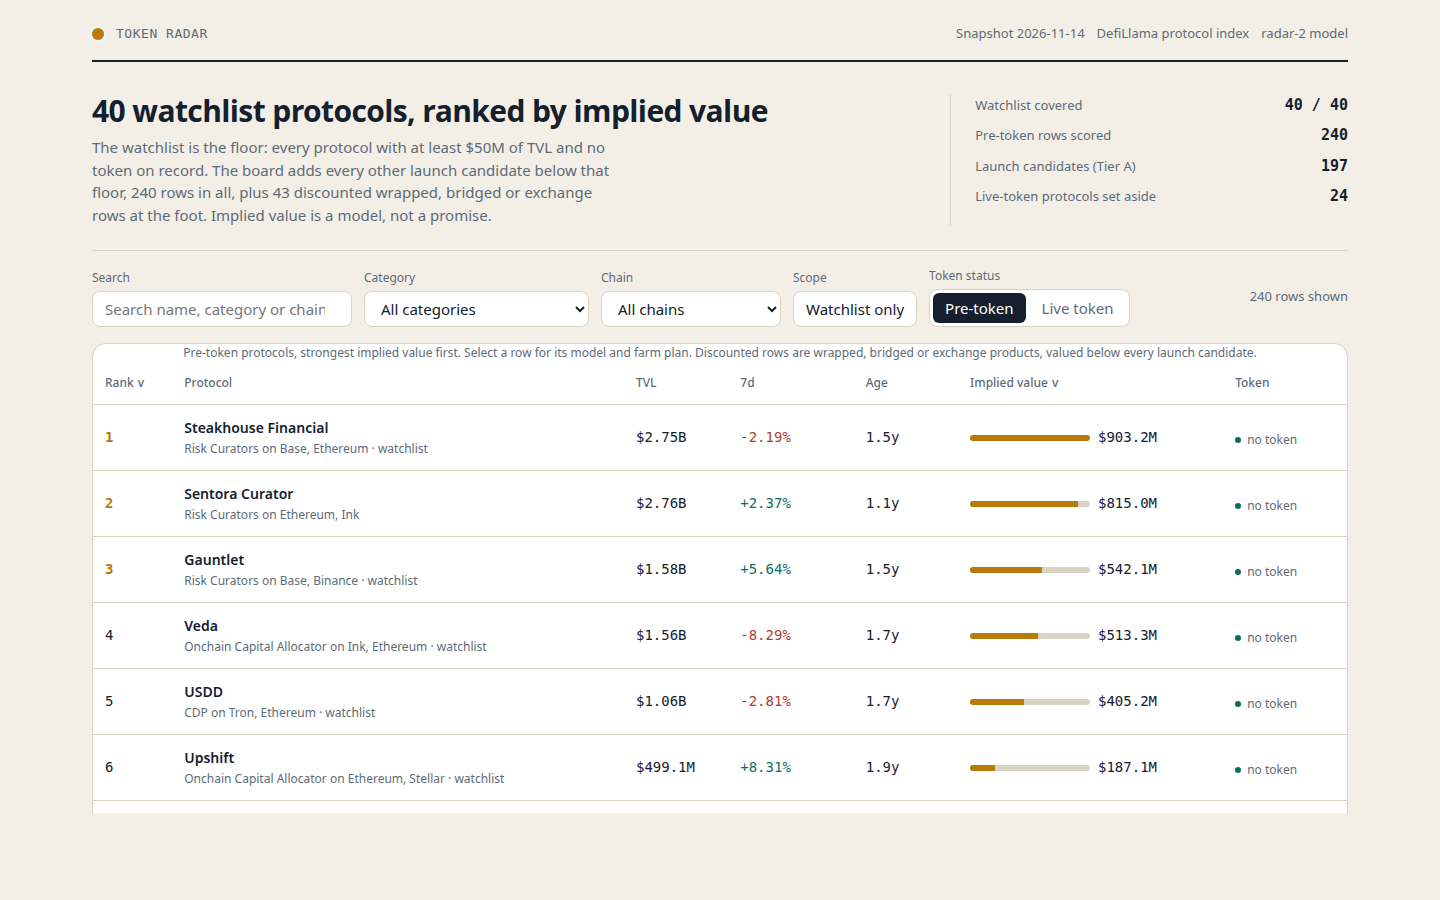
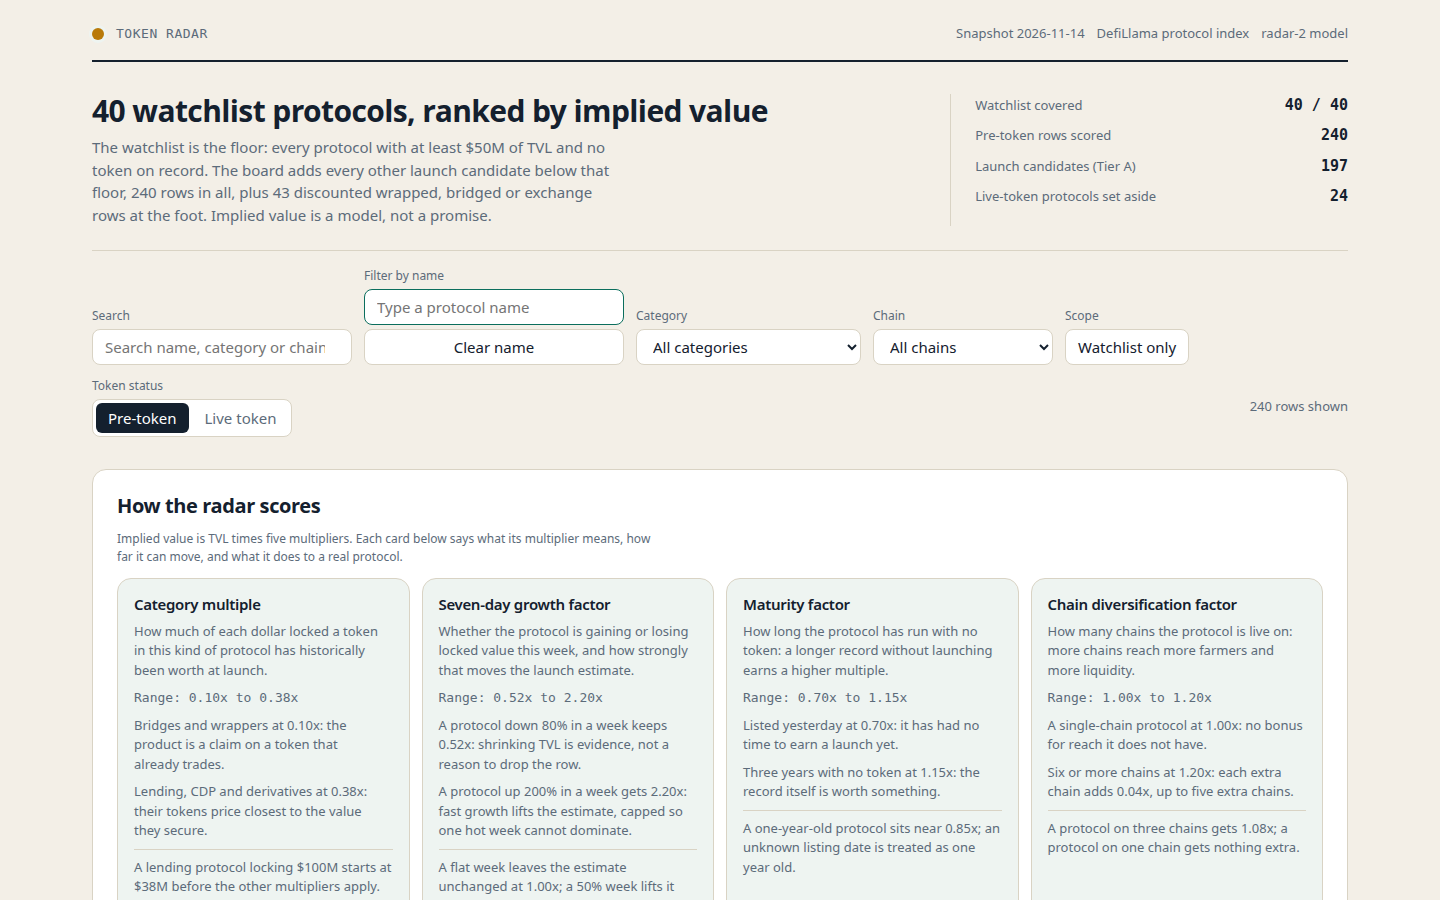
Token Radar: methodology, category summaries, score explanations, name search

diff --git a/lib/model.ts b/lib/model.ts
@@ -197,6 +197,9 @@ export interface RadarData {
   live_size: number;
   rows: RadarRow[];
   live: LiveRow[];
+  methodology: MultiplierGuideEntry[];
+  categories: CategoryBoardSummary[];
+  explanations: ScoreExplanation[];
 }
 
 /** Why the snapshot is not one this model can score. */
@@ -526,10 +529,167 @@ export function radarRow(row: BoardRow, watchlist: Set<string>): RadarRow {
   };
 }
 
+/** One row of the methodology table the dashboard renders: what a multiplier means in plain words, the range it can take, and a worked example. */
+export interface MultiplierGuideEntry {
+  factorName: string;
+  plainMeaning: string;
+  rangeText: string;
+  lowEndText: string;
+  highEndText: string;
+  workedExample: string;
+}
+
+/** The five multiplier rows, in the order the dashboard explains them: category first, then growth, maturity, chains, and tier. */
+export function multiplierGuide(): MultiplierGuideEntry[] {
+  const guideRows: MultiplierGuideEntry[] = [
+    {
+      factorName: 'Category multiple',
+      plainMeaning: 'How much of each dollar locked a token in this kind of protocol has historically been worth at launch.',
+      rangeText: '0.10x to 0.38x',
+      lowEndText: 'Bridges and wrappers at 0.10x: the product is a claim on a token that already trades.',
+      highEndText: 'Lending, CDP and derivatives at 0.38x: their tokens price closest to the value they secure.',
+      workedExample: 'A lending protocol locking $100M starts at $38M before the other multipliers apply.',
+    },
+    {
+      factorName: 'Seven-day growth factor',
+      plainMeaning: 'Whether the protocol is gaining or losing locked value this week, and how strongly that moves the launch estimate.',
+      rangeText: '0.52x to 2.20x',
+      lowEndText: 'A protocol down 80% in a week keeps 0.52x: shrinking TVL is evidence, not a reason to drop the row.',
+      highEndText: 'A protocol up 200% in a week gets 2.20x: fast growth lifts the estimate, capped so one hot week cannot dominate.',
+      workedExample: 'A flat week leaves the estimate unchanged at 1.00x; a 50% week lifts it to 1.30x.',
+    },
+    {
+      factorName: 'Maturity factor',
+      plainMeaning: 'How long the protocol has run with no token: a longer record without launching earns a higher multiple.',
+      rangeText: '0.70x to 1.15x',
+      lowEndText: 'Listed yesterday at 0.70x: it has had no time to earn a launch yet.',
+      highEndText: 'Three years with no token at 1.15x: the record itself is worth something.',
+      workedExample: 'A one-year-old protocol sits near 0.85x; an unknown listing date is treated as one year old.',
+    },
+    {
+      factorName: 'Chain diversification factor',
+      plainMeaning: 'How many chains the protocol is live on: more chains reach more farmers and more liquidity.',
+      rangeText: '1.00x to 1.20x',
+      lowEndText: 'A single-chain protocol at 1.00x: no bonus for reach it does not have.',
+      highEndText: 'Six or more chains at 1.20x: each extra chain adds 0.04x, up to five extra chains.',
+      workedExample: 'A protocol on three chains gets 1.08x; a protocol on one chain gets nothing extra.',
+    },
+    {
+      factorName: 'Tier factor',
+      plainMeaning: 'Whether the row is a genuine launch candidate or a discounted product of a token that already trades.',
+      rangeText: '0.15x or 1.00x',
+      lowEndText: 'Tier B at 0.15x and capped below the weakest Tier A row: a wrapped or bridged product cannot launch like a new token.',
+      highEndText: 'Tier A at 1.00x: a launch candidate under the watchlist rule keeps its full modelled value.',
+      workedExample: 'A Tier B row modelled at $10M is carried at $1.5M, and never above the lowest Tier A value.',
+    },
+  ];
+  return guideRows;
+}
+
+/** One category's share of the ranked board: how many rows it holds, what they are worth together, and its strongest row. */
+export interface CategoryBoardSummary {
+  categoryLabel: string;
+  rankedCount: number;
+  combinedImpliedUsd: number;
+  averageImpliedUsd: number;
+  strongestSlug: string;
+  strongestName: string;
+  strongestImpliedUsd: number;
+  watchlistCount: number;
+  launchCandidateCount: number;
+}
+
+/** The per-category summary of a finished board, strongest combined value first. */
+export function buildCategorySummary(board: BoardRow[], watchlist: Set<string>): CategoryBoardSummary[] {
+  const buckets = new Map<string, BoardRow[]>();
+  for (const ranked of board) {
+    const label = ranked.category ?? 'Other';
+    const members = buckets.get(label);
+    if (members === undefined) buckets.set(label, [ranked]);
+    else members.push(ranked);
+  }
+  const summaries: CategoryBoardSummary[] = [];
+  for (const [label, members] of buckets) {
+    const ordered = members.slice().sort((a, b) => b.implied_value_usd - a.implied_value_usd);
+    const strongest = ordered[0]!;
+    const combined = members.reduce((running, member) => running + member.implied_value_usd, 0);
+    const onWatchlist = members.filter((member) => watchlist.has(member.slug)).length;
+    const launchCandidates = members.filter((member) => member.model.tier === 'A').length;
+    summaries.push({
+      categoryLabel: label,
+      rankedCount: members.length,
+      combinedImpliedUsd: combined,
+      averageImpliedUsd: Math.round(combined / members.length),
+      strongestSlug: strongest.slug,
+      strongestName: strongest.name,
+      strongestImpliedUsd: strongest.implied_value_usd,
+      watchlistCount: onWatchlist,
+      launchCandidateCount: launchCandidates,
+    });
+  }
+  summaries.sort((a, b) => b.combinedImpliedUsd - a.combinedImpliedUsd || (a.categoryLabel < b.categoryLabel ? -1 : 1));
+  return summaries;
+}
+
+/** A single protocol's score, broken into every multiplier, with two plain-language sentences the detail view can show. */
+export interface ScoreExplanation {
+  slug: string; // the board row this explanation belongs to
+  protocolName: string;
+  categoryLabel: string;
+  tvlUsd: number;
+  categoryMultiple: number;
+  growthPct: number;
+  growthMultiplier: number;
+  maturityMultiplier: number;
+  chainMultiplier: number;
+  tierLabel: string;
+  tierMultiplier: number;
+  chainCount: number;
+  ageDays: number | null;
+  impliedValueUsd: number;
+  narrativeLines: string[];
+}
+
+/** The score explanation for one board row, derived only from the row's own model figures. */
+export function explainScore(row: BoardRow): ScoreExplanation {
+  const tierLabel = row.model.tier === 'A' ? 'Tier A launch candidate' : 'Tier B discounted';
+  const ageWords = row.age_days === null ? 'an unknown listing date' : `${row.age_days} days listed`;
+  const growthWords = row.model.growth_pct > 0 ? `grew ${row.model.growth_pct}% in the last seven days` : row.model.growth_pct < 0 ? `fell ${Math.abs(row.model.growth_pct)}% in the last seven days` : 'was flat over the last seven days';
+  const explanation: ScoreExplanation = {
+    slug: row.slug, // identifies the protocol this explanation belongs to
+    protocolName: row.name,
+    categoryLabel: row.category ?? 'Other',
+    tvlUsd: row.tvl_usd,
+    categoryMultiple: row.model.category_multiple,
+    growthPct: row.model.growth_pct,
+    growthMultiplier: row.model.growth_multiplier,
+    maturityMultiplier: row.model.maturity_multiplier,
+    chainMultiplier: row.model.chain_multiplier,
+    tierLabel,
+    tierMultiplier: row.model.tier_multiplier,
+    chainCount: row.chains.length,
+    ageDays: row.age_days,
+    impliedValueUsd: row.implied_value_usd,
+    narrativeLines: [
+      `${row.name} locks $${row.tvl_usd.toLocaleString('en-US')}, ${growthWords}, and has ${ageWords} across ${row.chains.length} chain${row.chains.length === 1 ? '' : 's'}.`,
+      `Its ${row.category ?? 'Other'} multiple is ${row.model.category_multiple}x, growth ${row.model.growth_multiplier}x, maturity ${row.model.maturity_multiplier}x, chains ${row.model.chain_multiplier}x and ${tierLabel} ${row.model.tier_multiplier}x, giving $${row.implied_value_usd.toLocaleString('en-US')}.`,
+    ],
+  };
+  return explanation;
+}
+
+/** The score explanation for every row of a finished board, in board order. */
+export function explanationsForBoard(board: BoardRow[]): ScoreExplanation[] {
+  return board.map((ranked) => explainScore(ranked));
+}
+
 /** Everything the dashboard renders, from the snapshot. */
 export function buildRadar(snapshot: Snapshot, model: ModelConstants = MODEL): { board: BoardRow[]; radar: RadarData } {
   const board = buildBoard(snapshot, model);
   const live = liveRows(snapshot);
+  const watchlistSlugs = new Set(snapshot.watchlist);
+  const categorySummaries = buildCategorySummary(board, watchlistSlugs);
+  const scoreExplanations = explanationsForBoard(board);
   const early = board.filter((r) => !snapshot.watchlist.includes(r.slug)).length;
   const radar: RadarData = {
     as_of: snapshot.as_of,
@@ -543,6 +703,9 @@ export function buildRadar(snapshot: Snapshot, model: ModelConstants = MODEL): {
     live_size: live.length,
     rows: board.map((r) => radarRow(r, new Set(snapshot.watchlist))),
     live,
+    methodology: multiplierGuide(),
+    categories: categorySummaries,
+    explanations: scoreExplanations,
   };
   return { board, radar };
 }

diff --git a/dashboard/app.js b/dashboard/app.js
@@ -13,6 +13,17 @@
   if (!DATA) return;
   var app = document.getElementById('board');
   var state = { q: '', category: 'all', chain: 'all', watchlistOnly: false, tab: 'pre-token', sort: 'implied', dir: -1, selected: null };
+  state.nameQuery = '';
+  // The name filter is separate from the broad search above it: it matches only the protocol
+  // name and slug, so typing a name narrows the board to that protocol and its namesakes.
+  function nameMatches(row) {
+    var needle = state.nameQuery.trim().toLowerCase();
+    if (!needle) return true;
+    return row.name.toLowerCase().indexOf(needle) >= 0 || row.slug.toLowerCase().indexOf(needle) >= 0;
+  }
+  function filteredRows() {
+    return rows().filter(nameMatches);
+  }
 
   var usd = new Intl.NumberFormat('en-US', { style: 'currency', currency: 'USD', maximumFractionDigits: 0 });
   function fmtUsd(n) {
@@ -230,6 +241,9 @@
     var chains = Array.from(new Set(DATA.rows.reduce(function (acc, r) { return acc.concat(r.chains || []); }, []))).sort();
     var search = el('input', { type: 'search', id: 'q', placeholder: 'Search name, category or chain', value: state.q, 'aria-label': 'Search the board' });
     search.addEventListener('input', function () { state.q = search.value; writeHash(); render(); });
+    var nameSearch = el('input', { type: 'search', id: 'name-search', placeholder: 'Type a protocol name', value: state.nameQuery, 'aria-label': 'Filter by protocol name' });
+    nameSearch.addEventListener('input', function () { state.nameQuery = nameSearch.value; render(); });
+    var nameClear = el('button', { type: 'button', class: 'name-clear', text: 'Clear name', onclick: function () { state.nameQuery = ''; render(); } });
     var select = el('select', { id: 'category', 'aria-label': 'Filter by category' },
       el('option', { value: 'all', text: 'All categories' }),
       categories.map(function (c) { return el('option', { value: c, text: c, selected: c === state.category ? 'selected' : null }); })
@@ -245,11 +259,12 @@
     var live = el('button', { type: 'button', 'aria-pressed': state.tab === 'live' ? 'true' : 'false', text: 'Live token', onclick: function () { state.tab = 'live'; render(); } });
     return el('div', { class: 'controls' },
       el('div', { class: 'field' }, el('label', { for: 'q', text: 'Search' }), search),
+      el('div', { class: 'field' }, el('label', { for: 'name-search', text: 'Filter by name' }), nameSearch, nameClear),
       el('div', { class: 'field' }, el('label', { for: 'category', text: 'Category' }), select),
       el('div', { class: 'field' }, el('label', { for: 'chain', text: 'Chain' }), chainSelect),
       el('div', { class: 'field' }, el('span', { class: 'sub', text: 'Scope' }), wl),
       el('div', { class: 'field' }, el('span', { class: 'sub', text: 'Token status' }), el('div', { class: 'tabs' }, pre, live)),
-      el('span', { class: 'count', text: state.tab === 'pre-token' ? rows().length + ' rows shown' : DATA.live.length + ' live-token protocols' })
+      el('span', { class: 'count', text: state.tab === 'pre-token' ? filteredRows().length + ' rows shown' : DATA.live.length + ' live-token protocols' })
     );
   }
 
@@ -263,7 +278,7 @@
   }
 
   function boardTable() {
-    var list = sortedRows(rows());
+    var list = sortedRows(filteredRows());
     if (list.length === 0) {
       return el('div', { class: 'panel' }, el('div', { class: 'empty' },
         el('h2', { text: 'No protocol matches that filter' }),
@@ -342,6 +357,63 @@
     );
   }
 
+  // The methodology section reads the multiplier table main.ts writes into data.js, so the
+  // explanation on the page and the model's own numbers can never drift apart.
+  function methodologySection() {
+    var guide = DATA.methodology || [];
+    var cards = guide.map(function (g) {
+      return el('article', { class: 'guide-card' },
+        el('h3', { text: g.factorName }),
+        el('p', { text: g.plainMeaning }),
+        el('p', { class: 'guide-range', text: 'Range: ' + g.rangeText }),
+        el('p', { class: 'sub', text: g.lowEndText }),
+        el('p', { class: 'sub', text: g.highEndText }),
+        el('p', { class: 'guide-example', text: g.workedExample })
+      );
+    });
+    return el('section', { class: 'panel methodology', 'aria-label': 'How the radar scores' },
+      el('h2', { text: 'How the radar scores' }),
+      el('p', { class: 'sub', text: 'Implied value is TVL times five multipliers. Each card below says what its multiplier means, how far it can move, and what it does to a real protocol.' }),
+      el('div', { class: 'guide-grid' }, cards)
+    );
+  }
+
+  // One card per category on the board: how many rows it holds, what they are worth together,
+  // how many are launch candidates, and the strongest protocol in the category.
+  function categoryPanel() {
+    var summaries = (DATA.categories || []).slice().sort(function (a, b) { return b.combinedImpliedUsd - a.combinedImpliedUsd; });
+    var cards = summaries.map(function (s) {
+      return el('article', { class: 'category-card' },
+        el('h3', { text: s.categoryLabel }),
+        el('div', { class: 'category-figures' },
+          el('div', null, el('span', { class: 'sub', text: 'Ranked protocols' }), el('b', { class: 'num', text: String(s.rankedCount) })),
+          el('div', null, el('span', { class: 'sub', text: 'Combined implied value' }), el('b', { class: 'num', text: fmtUsd(s.combinedImpliedUsd) })),
+          el('div', null, el('span', { class: 'sub', text: 'Launch candidates' }), el('b', { class: 'num', text: String(s.launchCandidateCount) })),
+          el('div', null, el('span', { class: 'sub', text: 'On the watchlist' }), el('b', { class: 'num', text: String(s.watchlistCount) }))
+        ),
+        el('p', { class: 'category-top', text: 'Top: ' + s.strongestName + ' at ' + fmtUsd(s.strongestImpliedUsd) })
+      );
+    });
+    return el('section', { class: 'panel category-panel', 'aria-label': 'Categories on the board' },
+      el('h2', { text: 'Categories on the board' }),
+      el('p', { class: 'sub', text: 'The strongest protocol in each category, and what the whole category is worth together.' }),
+      el('div', { class: 'category-grid' }, cards)
+    );
+  }
+
+  // The detail drawer's plain-language score: the per-row explanation data.js carries, with the
+  // same multipliers the equation above it shows, in two sentences a reader can follow.
+  function explanationSection(row) {
+    var found = (DATA.explanations || []).filter(function (e) { return e.slug === row.slug; })[0];
+    if (!found) return null;
+    var lines = found.narrativeLines.map(function (line) { return el('p', { text: line }); });
+    return el('section', { class: 'detail-section' },
+      el('h3', { text: 'Why this score' }),
+      el('p', { class: 'sub', text: found.tierLabel + ' · ' + found.categoryLabel + ' · ' + found.chainCount + ' chain' + (found.chainCount === 1 ? '' : 's') }),
+      lines
+    );
+  }
+
   function modelPanel() {
     var m = DATA.model;
     return el('section', { class: 'panel model' },
@@ -388,6 +460,8 @@
       ),
       el('p', { class: 'sub', text: 'Model ' + DATA.model_version + ': the same function scores every protocol. The page recomputes this row as ' + fmtUsd(recomputed) + (recomputed === row.implied_value_usd ? ', the same number board.json carries.' : ', which differs from the board: the data would be stale.') + ' This is an estimate, not a price.' })
     ));
+    var why = explanationSection(row);
+    if (why) dialog.appendChild(why);
     dialog.appendChild(el('section', { class: 'detail-section' },
       el('h3', { text: 'Farm plan' }),
       el('ol', { class: 'steps' }, steps.map(function (s) {
@@ -410,6 +484,8 @@
     shell.appendChild(header());
     shell.appendChild(lede());
     shell.appendChild(controls());
+    if (state.tab === 'pre-token') shell.appendChild(methodologySection());
+    if (state.tab === 'pre-token') shell.appendChild(categoryPanel());
     shell.appendChild(state.tab === 'pre-token' ? boardTable() : liveTable());
     if (state.tab === 'pre-token') shell.appendChild(modelPanel());
     app.appendChild(shell);

diff --git a/dashboard/app.css b/dashboard/app.css
@@ -107,6 +107,33 @@ tbody tr[data-selected="true"] td:first-child { color: var(--accent); }
 .status.discounted::before { background: var(--amber); }
 
 .model { margin-top: var(--step-4); padding: var(--step-5); display: grid; gap: var(--step-3); }
+.methodology { margin-top: var(--step-4); padding: var(--step-5); display: grid; gap: var(--step-3); }
+.methodology > p { color: var(--muted); max-width: 78ch; }
+.guide-grid { display: grid; grid-template-columns: repeat(auto-fit, minmax(240px, 1fr)); gap: var(--step-3); }
+.guide-card { border: 1px solid var(--border); border-radius: var(--radius-panel); padding: var(--step-4); display: grid; gap: var(--step-2); background: var(--wash); align-content: start; }
+.guide-card h3 { font-size: 15px; }
+.guide-card p { font-size: 13px; color: var(--muted); }
+.guide-range { font-family: var(--font-num); font-size: 13px; color: var(--ink); }
+.guide-example { font-size: 13px; color: var(--ink); border-top: 1px solid var(--border); padding-top: var(--step-2); }
+.category-panel { margin-top: var(--step-4); padding: var(--step-5); display: grid; gap: var(--step-3); }
+.category-panel > p { color: var(--muted); max-width: 78ch; }
+.category-grid { display: grid; grid-template-columns: repeat(auto-fit, minmax(260px, 1fr)); gap: var(--step-3); }
+.category-card { border: 1px solid var(--border); border-radius: var(--radius-panel); padding: var(--step-4); display: grid; gap: var(--step-3); align-content: start; }
+.category-card h3 { font-size: 15px; }
+.category-figures { display: grid; grid-template-columns: 1fr 1fr; gap: var(--step-3); }
+.category-figures > div { display: grid; gap: 2px; }
+.category-figures b { font-size: 14px; }
+.category-top { font-size: 13px; color: var(--ink); border-top: 1px solid var(--border); padding-top: var(--step-2); }
+.field .name-clear { min-width: 0; }
+#name-search { border-color: var(--accent); }
+#name-search:focus { outline: 2px solid var(--accent); outline-offset: 1px; }
+.detail-section p + p { margin-top: var(--step-2); }
+.detail-section .sub + p { margin-top: var(--step-2); }
+@media (max-width: 760px) {
+  .guide-grid { grid-template-columns: 1fr; }
+  .category-grid { grid-template-columns: 1fr; }
+  .category-figures { grid-template-columns: 1fr 1fr; }
+}
 .formula { font-family: var(--font-num); font-size: 13px; line-height: 1.7; color: var(--muted); overflow-wrap: anywhere; }
 .empty { padding: var(--step-7) var(--step-5); text-align: center; display: grid; gap: var(--step-3); justify-items: center; }
 .empty p { color: var(--muted); }

diff --git a/main.ts b/main.ts
@@ -89,7 +89,11 @@ writeFileSync(join(out, 'dossier.json'), buildDossier(out, { text_max_bytes: TEX
 
 const tierA = radar.rows.filter((r) => r.tier === 'A').length;
 const tierB = radar.rows.length - tierA;
+const methodologyRows = radar.methodology.length;
+const categoryPanels = radar.categories.length;
+const explainedRows = radar.explanations.length;
 process.stdout.write(
   `token radar: ${snapshot.protocols.length} protocols, ${snapshot.watchlist.length} on the watchlist, ${board.length} rows scored (${radar.early_size} early, ${radar.live_size} live set aside; ${tierA} Tier A candidates, ${tierB} discounted Tier B)\n` +
+    `token radar: methodology ${methodologyRows} factors, ${categoryPanels} category summaries, ${explainedRows} score explanations in data.js\n` +
     `token radar: wrote ${join(out, 'board.json')}, ${join(out, 'data.js')}, ${join(out, 'dashboard')} (3 files), ${join(out, 'screenshots')} (${shots.length} images) and ${join(out, 'dossier.json')}\n`,
 );

diff --git a/dashboard/index.html b/dashboard/index.html
@@ -3,12 +3,17 @@
 <head>
 <meta charset="utf-8">
 <meta name="viewport" content="width=device-width, initial-scale=1">
+<meta name="description" content="Token Radar ranks pre-token protocols by implied launch value, explains every scoring multiplier, and shows each category's share of the board.">
 <title>Token Radar: pre-token protocols ranked by implied value</title>
 <link rel="stylesheet" href="app.css">
 </head>
 <body>
 <a class="skip" href="#board">Skip to the board</a>
 <main id="board" tabindex="-1" aria-busy="true"></main>
+<noscript>
+  <p>Token Radar needs JavaScript to render the ranked board. The board itself lives in board.json, and the scoring method is written out in the dossier.</p>
+  <p>Enable JavaScript and reload to see the methodology cards, the category summaries, and the name filter.</p>
+</noscript>
 <script src="../data.js"></script>
 <script src="app.js"></script>
 </body>
